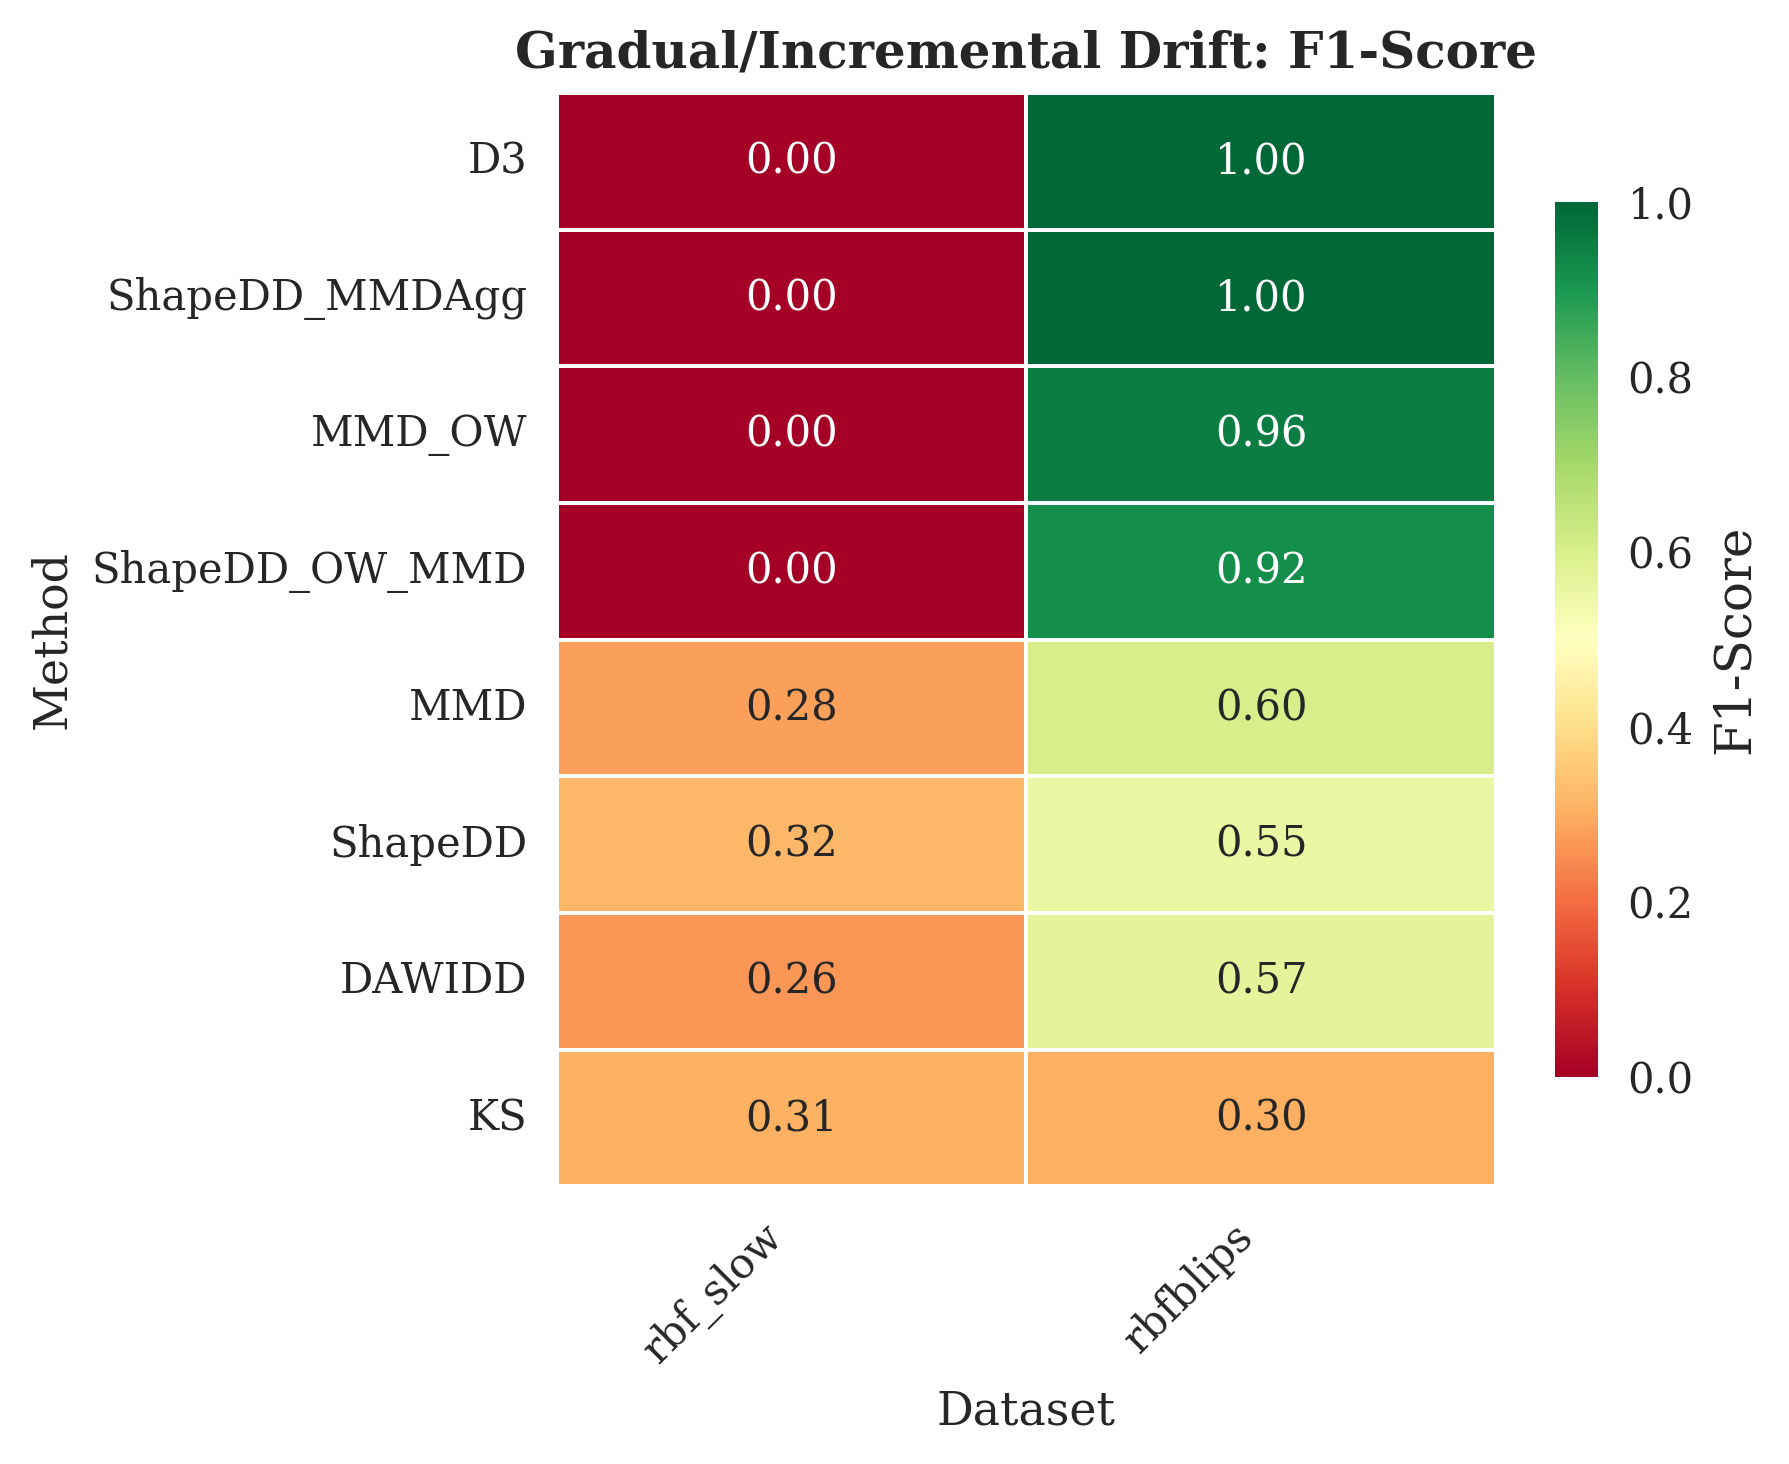
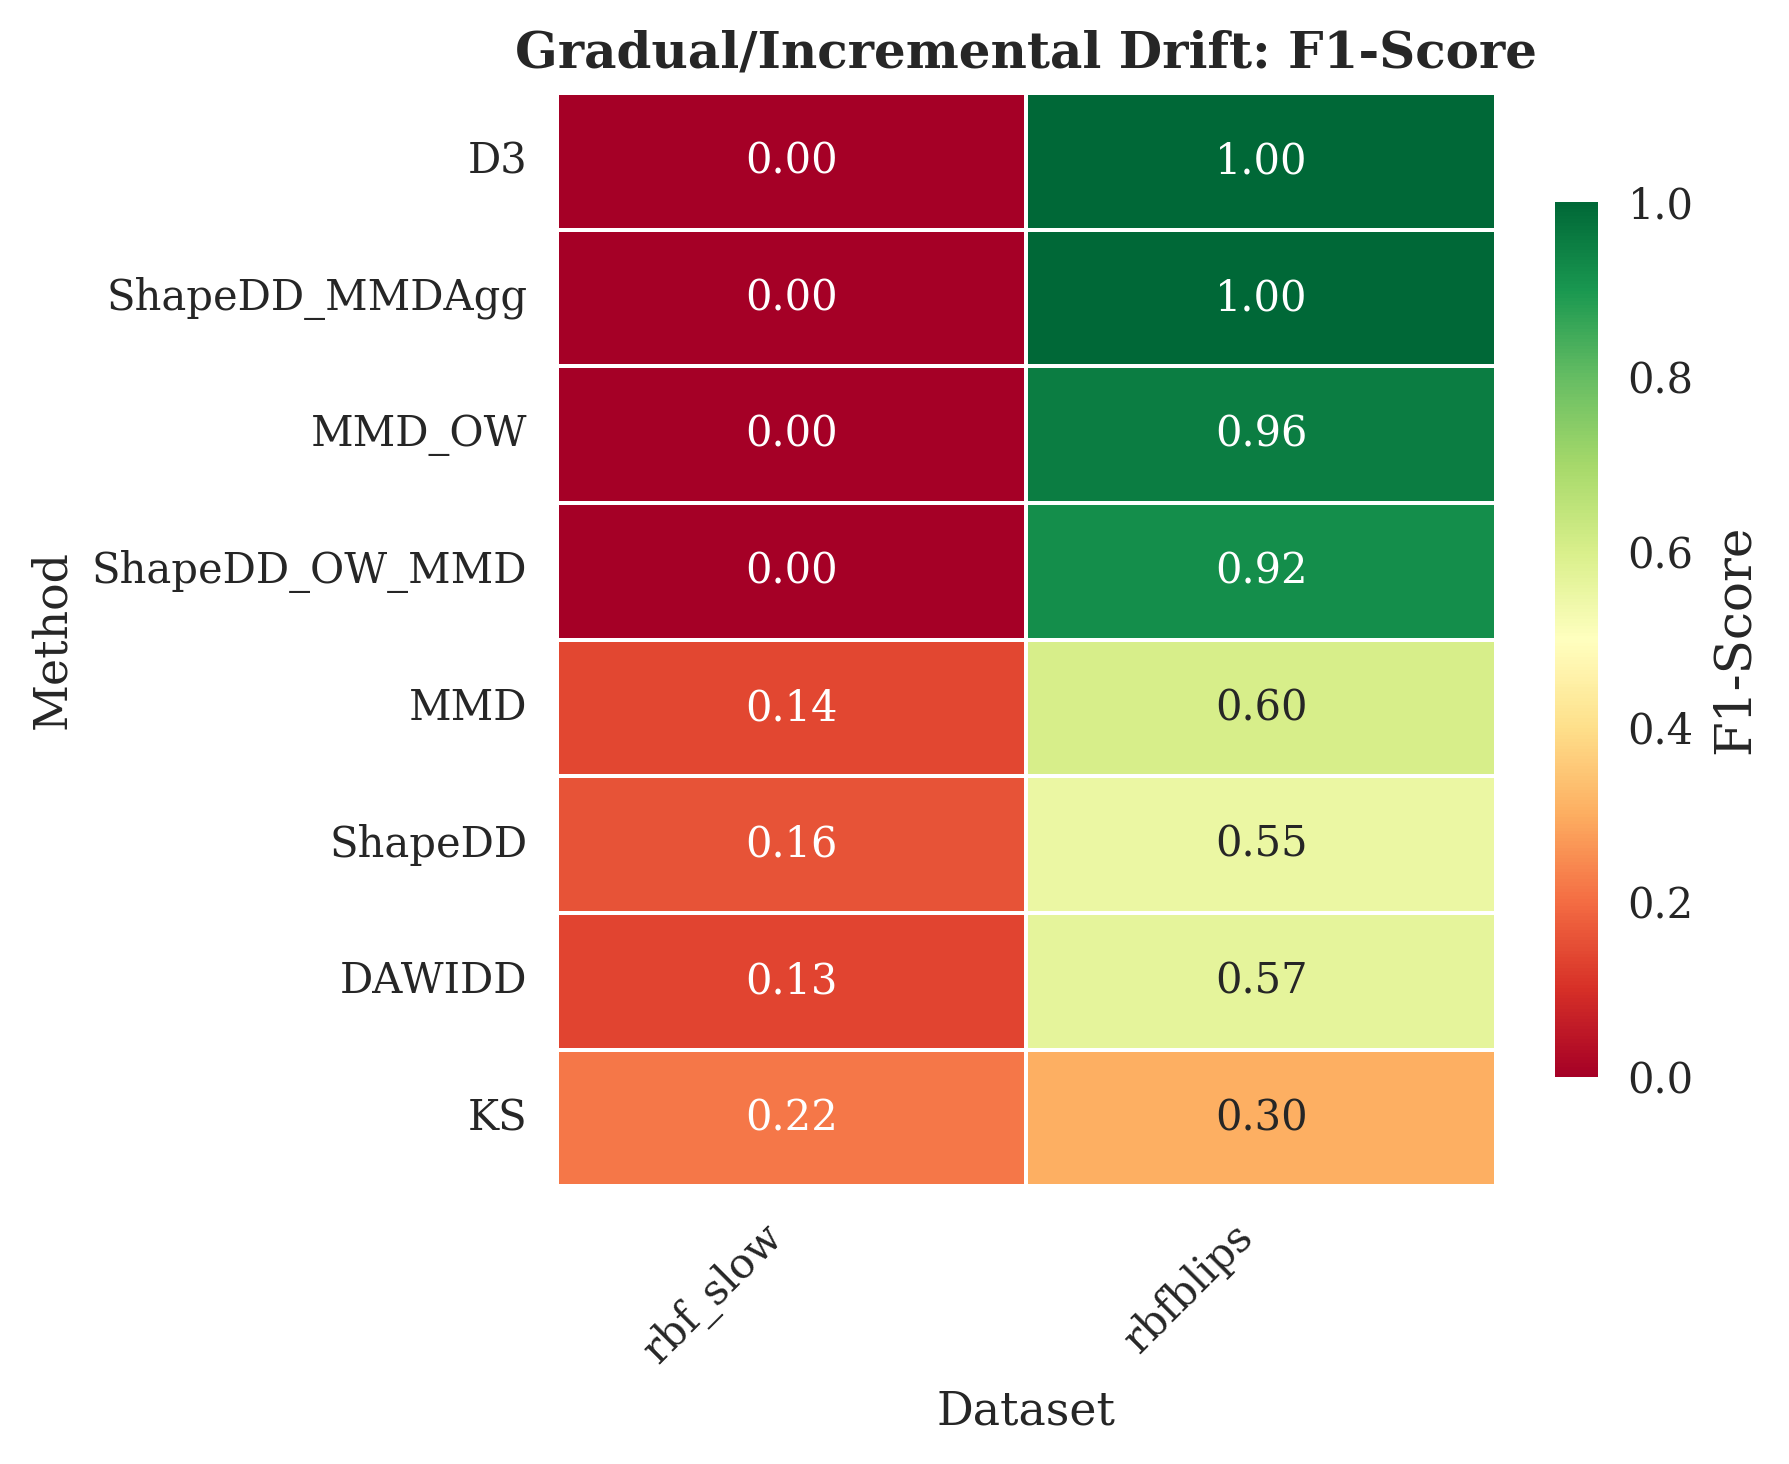
chore: experiment results

Changed region(s): [[0.3074, 0.4303, 0.5841, 0.8299]]

diff --git a/experiments/drift_detection_benchmark/publication_figures/table_II_f1_by_dataset.tex b/experiments/drift_detection_benchmark/publication_figures/table_II_f1_by_dataset.tex
@@ -1,19 +1,19 @@
 \begin{table}[htbp]
 \caption{F1-Score by method and dataset. Best scores per column are shown in \textbf{bold}. Methods ranked by mean F1-Score.}
 \label{tab:f1_by_dataset}
-\begin{tabular}{clccccccccc}
+\begin{tabular}{clcccccccccc}
 \toprule
-Dataset & Rank & gen_random_mild & gen_random_moderate & gen_random_severe & gen_random_ultra_severe & led_abrupt & rbf_slow & rbfblips & stagger & Mean \\
-Method &  &  &  &  &  &  &  &  &  &  \\
+Dataset & Rank & gaussian_shift_moderate & gen_random_mild & gen_random_moderate & gen_random_severe & gen_random_ultra_severe & led_abrupt & rbf_slow & rbfblips & stagger & Mean \\
+Method &  &  &  &  &  &  &  &  &  &  &  \\
 \midrule
-MMD_OW & 1 & 0.126 & \textbf{0.830} & 0.880 & 0.910 & 0.094 & 0.000 & 0.956 & 0.998 & \textbf{0.599} \\
-ShapeDD_OW_MMD & 2 & 0.127 & 0.772 & 0.899 & 0.892 & 0.083 & 0.000 & 0.920 & 0.994 & 0.586 \\
-MMD & 3 & 0.614 & 0.677 & 0.601 & 0.588 & 0.251 & 0.280 & 0.602 & 0.639 & 0.532 \\
-D3 & 4 & 0.012 & 0.249 & 0.959 & 0.959 & 0.000 & 0.000 & \textbf{1.000} & 0.998 & 0.522 \\
-DAWIDD & 5 & \textbf{0.624} & 0.665 & 0.598 & 0.591 & 0.253 & 0.262 & 0.570 & 0.583 & 0.518 \\
-ShapeDD_MMDAgg & 6 & 0.000 & 0.154 & \textbf{0.973} & \textbf{0.971} & 0.000 & 0.000 & \textbf{1.000} & \textbf{1.000} & 0.512 \\
-ShapeDD & 7 & 0.554 & 0.597 & 0.539 & 0.532 & \textbf{0.300} & \textbf{0.318} & 0.553 & 0.582 & 0.497 \\
-KS & 8 & 0.384 & 0.408 & 0.392 & 0.392 & 0.124 & 0.307 & 0.301 & 0.389 & 0.337 \\
+MMD_OW & 1 & \textbf{0.998} & 0.126 & \textbf{0.830} & 0.876 & 0.907 & 0.063 & 0.000 & 0.956 & 0.998 & \textbf{0.639} \\
+ShapeDD_OW_MMD & 2 & 0.980 & 0.121 & 0.772 & 0.899 & 0.892 & 0.026 & 0.000 & 0.920 & 0.994 & 0.623 \\
+D3 & 3 & \textbf{0.998} & 0.012 & 0.249 & 0.959 & 0.959 & 0.000 & 0.000 & \textbf{1.000} & 0.998 & 0.575 \\
+ShapeDD_MMDAgg & 4 & 0.924 & 0.000 & 0.154 & \textbf{0.973} & \textbf{0.971} & 0.000 & 0.000 & \textbf{1.000} & \textbf{1.000} & 0.558 \\
+MMD & 5 & 0.627 & 0.576 & 0.674 & 0.591 & 0.578 & 0.122 & 0.138 & 0.602 & 0.639 & 0.505 \\
+DAWIDD & 6 & 0.590 & \textbf{0.594} & 0.658 & 0.583 & 0.576 & 0.140 & 0.135 & 0.570 & 0.583 & 0.492 \\
+ShapeDD & 7 & 0.595 & 0.534 & 0.590 & 0.528 & 0.519 & \textbf{0.167} & 0.156 & 0.553 & 0.582 & 0.469 \\
+KS & 8 & 0.294 & 0.337 & 0.402 & 0.385 & 0.385 & 0.073 & \textbf{0.217} & 0.301 & 0.389 & 0.309 \\
 \bottomrule
 \end{tabular}
 \end{table}

diff --git a/experiments/drift_detection_benchmark/publication_figures/table_I_comprehensive_performance.tex b/experiments/drift_detection_benchmark/publication_figures/table_I_comprehensive_performance.tex
@@ -5,14 +5,14 @@
 \toprule
 Rank & Method & F1 ($\mu \pm \sigma$) & Precision & Recall & MTTD & TP & FP & FN \\
 \midrule
-1 & MMD_OW & $\mathbf{0.599 \pm 0.420}$ & 0.671 & 0.601 & 26.000 & 1443 & 213 & 957 \\
-2 & ShapeDD_OW_MMD & $0.586 \pm 0.413$ & \textbf{0.678} & 0.573 & 27.000 & 1375 & 175 & 1025 \\
-3 & MMD & $0.531 \pm 0.180$ & 0.422 & 0.782 & 42.000 & 1877 & 2490 & 523 \\
-4 & D3 & $0.522 \pm 0.468$ & 0.613 & 0.501 & \textbf{17.000} & 1202 & 0 & 1198 \\
-5 & DAWIDD & $0.518 \pm 0.176$ & 0.409 & 0.782 & 43.000 & 1878 & 2647 & 522 \\
-6 & ShapeDD_MMDAgg & $0.512 \pm 0.480$ & 0.578 & 0.500 & 20.000 & 1199 & 3 & 1201 \\
-7 & ShapeDD & $0.497 \pm 0.138$ & 0.366 & 0.815 & 42.000 & 1957 & 3321 & 443 \\
-8 & KS & $0.337 \pm 0.103$ & 0.232 & \textbf{0.856} & 36.000 & 2055 & 7218 & 345 \\
+1 & MMD_OW & $\mathbf{0.639 \pm 0.419}$ & \textbf{0.696} & 0.643 & 23.000 & 1735 & 222 & 965 \\
+2 & ShapeDD_OW_MMD & $0.623 \pm 0.417$ & 0.683 & 0.616 & 20.000 & 1664 & 199 & 1036 \\
+3 & D3 & $0.575 \pm 0.466$ & 0.656 & 0.556 & \textbf{14.000} & 1501 & 0 & 1199 \\
+4 & ShapeDD_MMDAgg & $0.558 \pm 0.471$ & 0.610 & 0.555 & 18.000 & 1499 & 54 & 1201 \\
+5 & MMD & $0.505 \pm 0.219$ & 0.387 & 0.768 & 31.000 & 2074 & 2959 & 626 \\
+6 & DAWIDD & $0.492 \pm 0.207$ & 0.374 & 0.771 & 33.000 & 2081 & 3167 & 619 \\
+7 & ShapeDD & $0.469 \pm 0.183$ & 0.340 & 0.788 & 31.000 & 2127 & 3867 & 573 \\
+8 & KS & $0.309 \pm 0.112$ & 0.202 & \textbf{0.821} & 29.000 & 2217 & 8801 & 483 \\
 \bottomrule
 \end{tabular}
 \end{table}

diff --git a/experiments/drift_detection_benchmark/publication_figures/table_III_runtime_stats.tex b/experiments/drift_detection_benchmark/publication_figures/table_III_runtime_stats.tex
@@ -6,14 +6,14 @@
  & Mean (s) & Std (s) & Min (s) & Max (s) & Throughput (samples/s) \\
 Method &  &  &  &  &  \\
 \midrule
-ShapeDD_OW_MMD & 0.174500 & 0.008400 & 0.155000 & 0.201800 & 57307 \\
-MMD_OW & 0.176300 & 0.009500 & 0.154100 & 0.202900 & 56721 \\
-KS & 0.307800 & 0.070000 & 0.238600 & 0.466700 & 32489 \\
-D3 & 0.317700 & 0.007400 & 0.305300 & 0.363500 & 31476 \\
-MMD & 0.763000 & 0.296200 & 0.349500 & 1.771800 & 13106 \\
-ShapeDD & 0.953100 & 0.266100 & 0.497500 & 2.702900 & 10492 \\
-ShapeDD_MMDAgg & 1.368500 & 0.042600 & 1.281200 & 1.606800 & 7307 \\
-DAWIDD & 2.202600 & 0.211800 & 1.962600 & 4.053900 & 4540 \\
+ShapeDD_OW_MMD & 0.179700 & 0.011400 & 0.156200 & 0.251800 & 55648 \\
+MMD_OW & 0.182300 & 0.014300 & 0.154700 & 0.257700 & 54855 \\
+KS & 0.322400 & 0.078700 & 0.230800 & 0.536900 & 31017 \\
+D3 & 0.325300 & 0.011700 & 0.307400 & 0.396100 & 30741 \\
+MMD & 0.842200 & 0.349300 & 0.356900 & 2.391700 & 11874 \\
+ShapeDD & 1.037600 & 0.334000 & 0.468400 & 2.802400 & 9638 \\
+ShapeDD_MMDAgg & 1.414500 & 0.075600 & 1.285200 & 1.794700 & 7070 \\
+DAWIDD & 2.291500 & 0.233300 & 1.932500 & 4.245200 & 4364 \\
 \bottomrule
 \end{tabular}
 \end{table}

diff --git a/experiments/drift_detection_benchmark/publication_figures/table_IV_statistical_significance.tex b/experiments/drift_detection_benchmark/publication_figures/table_IV_statistical_significance.tex
@@ -6,16 +6,16 @@ Methods connected by bars in the CD diagram are not significantly different.}
 \toprule
 Method & Average Rank & Rank \\
 \midrule
-MMD_OW & 3.889 & 1 \\
-MMD & 4.056 & 2 \\
-DAWIDD & 4.278 & 3 \\
-ShapeDD_MMDAgg & 4.333 & 4 \\
-ShapeDD_OW_MMD & 4.333 & 5 \\
-D3 & 4.556 & 6 \\
-ShapeDD & 4.722 & 7 \\
-KS & 5.833 & 8 \\
+MMD_OW & 3.500 & 1 \\
+MMD & 4.050 & 2 \\
+ShapeDD_MMDAgg & 4.300 & 3 \\
+D3 & 4.300 & 4 \\
+ShapeDD_OW_MMD & 4.300 & 5 \\
+DAWIDD & 4.650 & 6 \\
+ShapeDD & 4.950 & 7 \\
+KS & 5.950 & 8 \\
 \midrule
-\multicolumn{3}{l}{Critical Difference (CD) = 3.500} \\
+\multicolumn{3}{l}{Critical Difference (CD) = 3.320} \\
 \bottomrule
 \end{tabular}
 \end{table}
